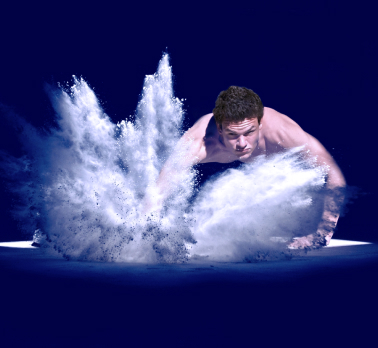
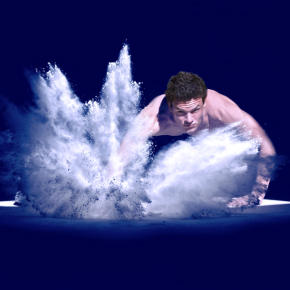
блок геймс полгоняю под перфект пиксель

Changed region(s): [[0.0, 0.1552, 1.0, 0.7759], [0.6207, 0.7138, 0.6517, 0.7448]]

diff --git a/source/index.html b/source/index.html
@@ -203,36 +203,34 @@
       </section>
       <section class="main__sections-list games" data-test="games">
         <h2 class="visually-hidden">Промо предложение</h2>
-        <div class="games__container">
-          <div class="games__info info">
-            <div class="games__info-container">
-              <h3 class="games__title">Super games</h3>
-              <ul class="games__list games-list">
-                <li class="games-list__item games-item">
-                  <p class="games-item__text">Дата</p>
-                  <p class="games-item__number">7</p>
-                  <p class="games-item__month">Марта</p>
-                  <p class="games-item__year">2019</p>
-                </li>
-                <li class="games-list__item games-item">
-                  <p class="games-item__text">Время</p>
-                  <p class="games-item__number">12:00</p>
-                </li>
-              </ul>
-              <p class="games__text">Ежегодные соревнования по CrossFit</p>
-              <a class="games__button" href="https://application.ru">Заполнить заявку</a>
-            </div>
+        <div class="games__container games-container">
+          <div class="games-container__info games-info">
+            <h3 class="games-info__title games-title">Super games</h3>
+            <ul class="games-info__list games-list">
+              <li class="games-list__item games-item">
+                <p class="games-item__text games-text games-text--mod"><span class="games-text__text games-item-text">Дата</span></p>
+                <p class="games-item__number games-item-number">7</p>
+                <p class="games-item__month games-item-month">Марта</p>
+                <p class="games-item__year games-item-year">2019</p>
+              </li>
+              <li class="games-list__item games-item">
+                <p class="games-item__text games-text games-text--mod"><span class="games-text__text games-item-text">Время</span></p>
+                <p class="games-item__number games-item-number">12:00</p>
+              </li>
+            </ul>
+            <p class="games-info__text games-info-text">Ежегодные соревнования по CrossFit</p>
+            <a class="games-info__btn games-btn" href="https://application.ru">Заполнить заявку</a>
           </div>
-          <div class="games__picture">
-            <picture>
-              <source type="image/webp" media="(min-width: 1366px)" srcset="img/games/games-desk.webp 1x, img/games/games-desk@2x.webp 2x" width="660" height="500">
-              <source type="image/webp" media="(min-width: 768px)" srcset="img/games/games.webp 1x, img/games/games@2x.webp 2x" width="376" height="348">
-              <source type="image/webp" srcset="img/games/games.webp 1x, img/games/games@2x.webp 2x" width="290" height="290">
-              <source type="image/jpeg" media="(min-width: 1366px)" srcset="img/games/games-desk.jpg 1x, img/games/games-desk@2x.jpg 2x" width="660" height="500">
-              <source type="image/jpeg" media="(min-width: 768px)" srcset="img/games/games.jpg 1x, img/games/games@2x.jpg 2x" width="376" height="348">
-              <img class="games__img" src="img/games/games.jpg" srcset="img/games/games.jpg 1x, img/games/games@2x.jpg 2x" width="290" height="290" alt="Промо фото игр.">
-            </picture>
-          </div>
+        </div>
+        <div class="games-container__picture games-picture">
+          <picture>
+            <source type="image/webp" media="(min-width: 1366px)" srcset="img/games/games-desk.webp 1x, img/games/games-desk@2x.webp 2x" width="660" height="500">
+            <source type="image/webp" media="(min-width: 768px)" srcset="img/games/games-tab.webp 1x, img/games/games-tab@2x.webp 2x" width="378" height="348">
+            <source type="image/webp" srcset="img/games/games.webp 1x, img/games/games@2x.webp 2x" width="290" height="290">
+            <source type="image/jpeg" media="(min-width: 1366px)" srcset="img/games/games-desk.jpg 1x, img/games/games-desk@2x.jpg 2x" width="660" height="500">
+            <source type="image/jpeg" media="(min-width: 768px)" srcset="img/games/games-tab.jpg 1x, img/games/games-tab@2x.jpg 2x" width="378" height="348">
+            <img class="games-picture__img" src="img/games/games.jpg" srcset="img/games/games.jpg 1x, img/games/games@2x.jpg 2x" width="290" height="290" alt="Промо фото игр.">
+          </picture>
         </div>
       </section>
       <section class="main__sections-list juri" data-test="juri">

diff --git a/source/sass/style.scss b/source/sass/style.scss
@@ -29,3 +29,18 @@
 @import "main/about/picture-container/video/video-iframe";
 @import "main/about/picture-container/video/btn-play/btn-play";
 @import "main/about/picture-container/video/btn-play/play-img";
+
+@import "main/games/games.scss";
+@import "main/games/games-container/games-container.scss";
+@import "main/games/games-container/games-info/games-info.scss";
+@import "main/games/games-container/games-info/games-title.scss";
+@import "main/games/games-container/games-info/games-info-text";
+@import "main/games/games-container/games-info/games-btn.scss";
+@import "main/games/games-container/games-info/games-list/games-list.scss";
+@import "main/games/games-container/games-info/games-list/games-item/games-item.scss";
+@import "main/games/games-container/games-info/games-list/games-item/games-text";
+@import "main/games/games-container/games-info/games-list/games-item/games-item-text";
+@import "main/games/games-container/games-info/games-list/games-item/games-item-number";
+@import "main/games/games-container/games-info/games-list/games-item/games-item-month";
+@import "main/games/games-container/games-info/games-list/games-item/games-item-year";
+@import "main/games/games-picture/games-picture.scss";

diff --git a/source/sass/main/games/games-container/games-info/games-btn.scss b/source/sass/main/games/games-container/games-info/games-btn.scss
@@ -1,0 +1,19 @@
+.games-btn {
+  display: block;
+  margin: 1px 0 -1px;
+  padding: 22px 0;
+  font-family: "Roboto-bold", sans-serif;
+  font-size: 12px;
+  line-height: 12px;
+  grid-column-start: 1;
+  grid-column-end: 3;
+  grid-row-start: 3;
+  grid-row-end: 3;
+  width: 206px;
+  color: #ffffff;
+  border: #ffffff 2px solid;
+  outline: none;
+  text-align: center;
+  text-decoration: none;
+  text-transform: uppercase;
+}

diff --git a/source/sass/main/games/games-container/games-info/games-title.scss b/source/sass/main/games/games-container/games-info/games-title.scss
@@ -1,0 +1,13 @@
+.games-title {
+  margin: 0;
+  font-family: "Alumni-semibold", sans-serif;
+  font-size: 48px;
+  line-height: 54px;
+  grid-column-start: 1;
+  grid-column-end: 2;
+  grid-row-start: 1;
+  grid-row-end: 2;
+  padding: 0;
+  width: 117px;
+  text-transform: uppercase;
+}

diff --git a/source/sass/main/games/games-container/games-info/games-list/games-item/games-item-month.scss b/source/sass/main/games/games-container/games-info/games-list/games-item/games-item-month.scss
@@ -1,0 +1,11 @@
+.games-item-month {
+  margin: -1px 0 1px;
+  font-family: "Roboto-regular", sans-serif;
+  font-size: 12px;
+  line-height: 100%;
+  grid-column-start: 2;
+  grid-column-end: 4;
+  grid-row-start: 2;
+  grid-row-end: 2;
+  padding: 0;
+}

diff --git a/source/sass/main/games/games-container/games-info/games-list/games-item/games-item-year.scss b/source/sass/main/games/games-container/games-info/games-list/games-item/games-item-year.scss
@@ -1,0 +1,11 @@
+.games-item-year {
+  margin: -3px 0 3px;
+  font-family: "Roboto-regular", sans-serif;
+  font-size: 12px;
+  line-height: 100%;
+  grid-column-start: 2;
+  grid-column-end: 4;
+  grid-row-start: 3;
+  grid-row-end: 3;
+  padding: 0;
+}

diff --git a/source/sass/main/games/games-container/games-info/games-list/games-item/games-item-number.scss b/source/sass/main/games/games-container/games-info/games-list/games-item/games-item-number.scss
@@ -1,0 +1,11 @@
+.games-item-number {
+  margin: -1px 0 1px;
+  font-family: "Roboto-bold", sans-serif;
+  font-size: 24px;
+  line-height: 24px;
+  grid-column-start: 1;
+  grid-column-end: 2;
+  grid-row-start: 2;
+  grid-row-end: 3;
+  padding: 0;
+}

diff --git a/source/sass/main/games/games-container/games-info/games-list/games-list.scss b/source/sass/main/games/games-container/games-info/games-list/games-list.scss
@@ -1,0 +1,12 @@
+.games-list {
+  margin: 0;
+  display: flex;
+  flex-direction: column;
+  grid-column-start: 2;
+  grid-column-end: 3;
+  grid-row-start: 1;
+  grid-row-end: 2;
+  width: 56px;
+  padding: 0;
+  list-style-type: none;
+}

diff --git a/source/sass/main/games/games-container/games-info/games-info-text.scss b/source/sass/main/games/games-container/games-info/games-info-text.scss
@@ -1,0 +1,11 @@
+.games-info-text {
+  margin: 0;
+  font-size: 16px;
+  line-height: 20px;
+  grid-column-start: 1;
+  grid-column-end: 3;
+  grid-row-start: 2;
+  grid-row-end: 3;
+  padding: 0;
+  width: 185px;
+}

diff --git a/source/sass/main/games/games-container/games-info/games-list/games-item/games-text.scss b/source/sass/main/games/games-container/games-info/games-list/games-item/games-text.scss
@@ -1,0 +1,10 @@
+.games-text {
+  margin: 0;
+  grid-column-start: 1;
+  grid-column-end: 4;
+  grid-row-start: 1;
+  grid-row-end: 2;
+  width: 56px;
+  padding: 0;
+  border-bottom: #ffffff 1px solid;
+}

diff --git a/source/sass/main/games/games-container/games-container.scss b/source/sass/main/games/games-container/games-container.scss
@@ -1,0 +1,7 @@
+.games-container {
+  display: flex;
+  flex-direction: column;
+  padding: 40px 40px 41px;
+  color: #ffffff;
+  background-color: #ED0233;
+}

diff --git a/source/sass/main/games/games-container/games-info/games-list/games-item/games-item-text.scss b/source/sass/main/games/games-container/games-info/games-list/games-item/games-item-text.scss
@@ -1,0 +1,7 @@
+.games-item-text {
+  margin: 0;
+  font-family: "Roboto-light", Arial, sans-serif;
+  font-size: 16px;
+  line-height: 20px;
+  padding: 0;
+}
